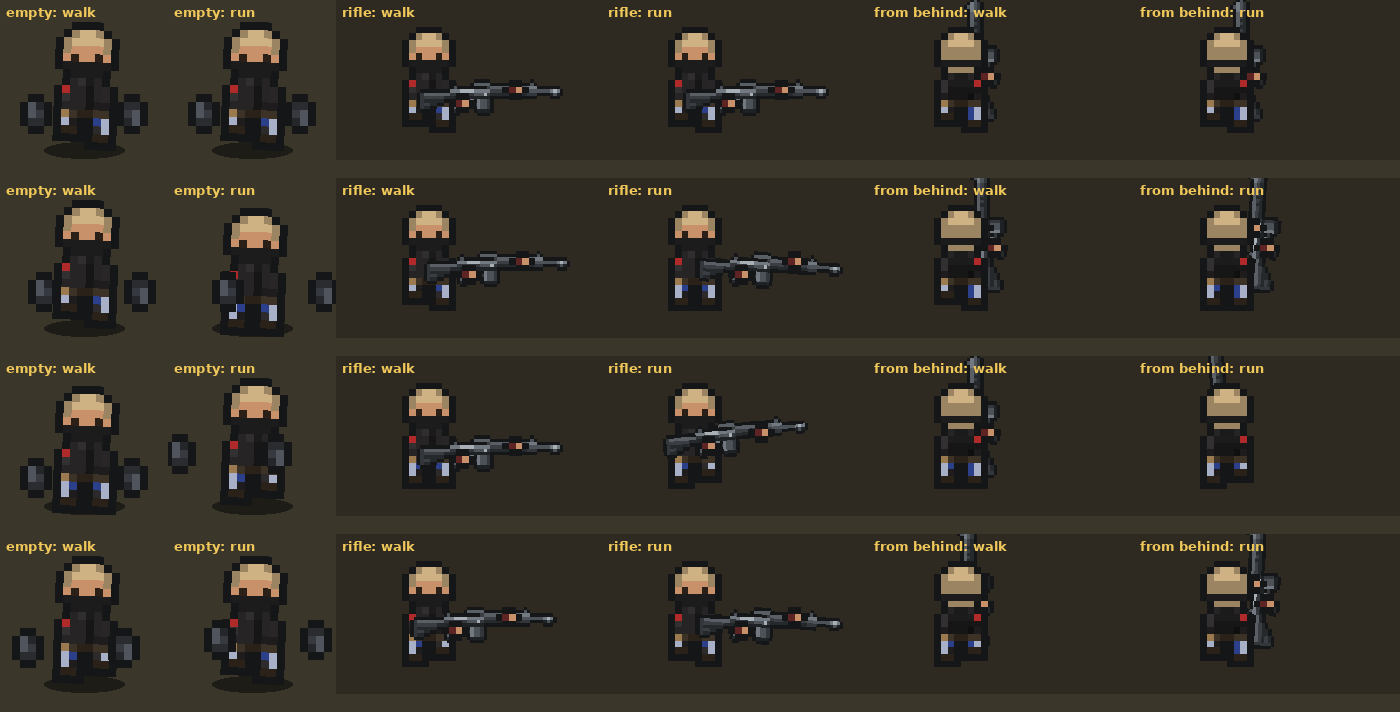
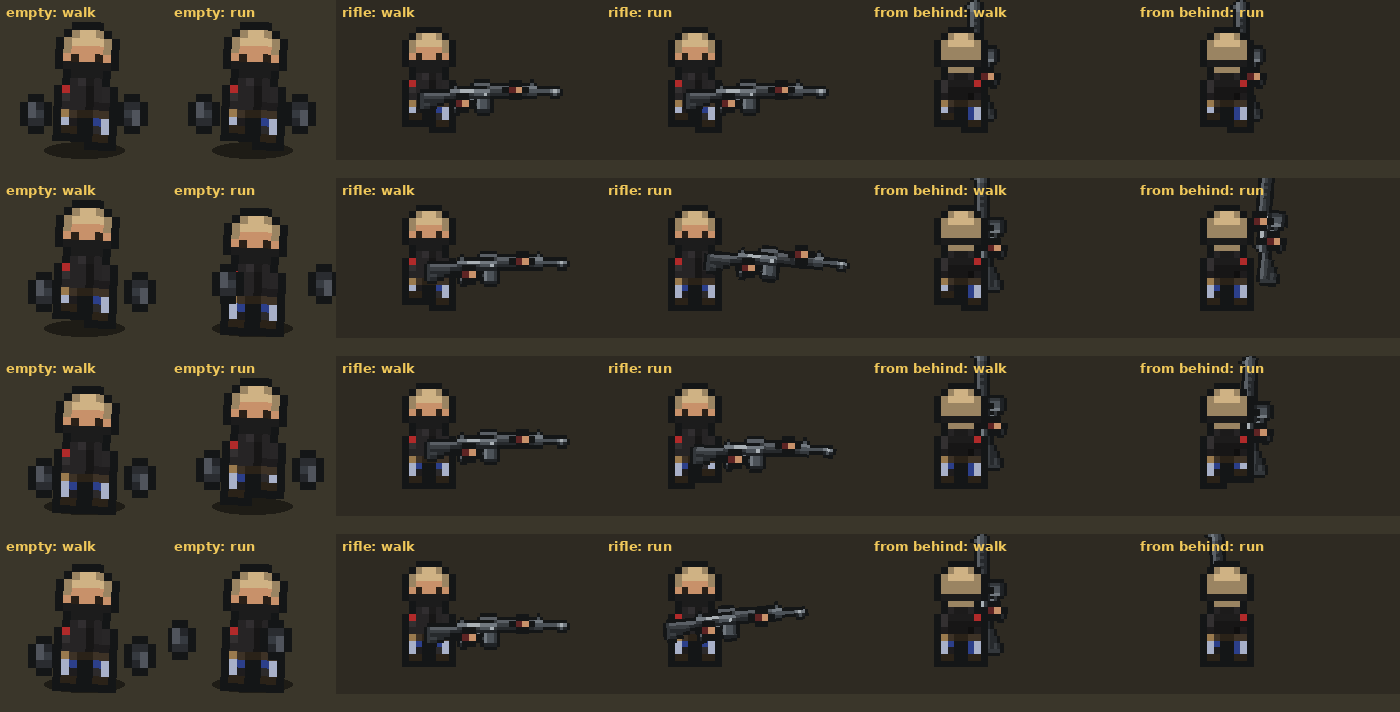
hands_swing preview: body stepping at the game's cadence, 50 fps
Claude-Session: https://claude.ai/code/session_01Jpd5tdDJTR7BVueAYV1KDM

diff --git a/Tools/render/hands_swing.py b/Tools/render/hands_swing.py
@@ -4,7 +4,7 @@ Usage: python3 Tools/render/hands_swing.py out_dir -> hands_swing.gif, hands_swi
 import math, os, sys
 from PIL import Image, ImageDraw, ImageFont
 ROOT = os.path.dirname(os.path.dirname(os.path.dirname(os.path.abspath(__file__)))); SPR = os.path.join(ROOT, "Assets/Resources/Sprites")
-Z = 8; BG = (58, 54, 42, 255); FPS = 30; STRIDE = 1.2
+Z = 8; BG = (58, 54, 42, 255); FPS = 50; STRIDE = 1.2
 def cell(n, x=0): return Image.open(os.path.join(SPR, n)).convert("RGBA").crop((x * 16, 0, x * 16 + 16, 16))
 stand, wa, wb = cell("armor_atlas.png"), cell("armor_walk_a.png"), cell("armor_walk_b.png")
 rifle = Image.open(os.path.join(SPR, "Weapons/weapon_CorvanBattleRifle.png")).convert("RGBA")
@@ -21,7 +21,8 @@ def free_hands(phase, swing, run):
 def frame(t, speed, armed, label):
     W = 16 * Z + 40; H = 16 * Z + 50; c = Image.new("RGBA", (W, H), BG); d = ImageDraw.Draw(c)
     phase = speed * t * 2 * math.pi / STRIDE; run = max(0.0, min(1.0, (speed - 3.4) / 1.0)); walk = 1.0
-    q = int(phase / (2 * math.pi) * 4) % 4; f = stand if q in (1, 3) else (wa if q == 0 else wb); step_body = q in (0, 2)
+    q = int(speed * t * 4) % 4          # the game: HeldPoseMath.WalkFrame(stride) = int(stride * 4) % 4, stride in tiles walked: one body cycle per tile
+    f = stand if q in (1, 3) else (wa if q == 0 else wb); step_body = q in (0, 2)
     ox, oy = 20, 30 - (1 * Z if step_body else 0)
     d.ellipse((20 + 3 * Z, 30 + 14 * Z, 20 + 13 * Z, 30 + 16 * Z), fill=(30, 28, 22, 255))
     body = f.resize((16 * Z, 16 * Z), Image.NEAREST); tilt = -2.0
@@ -52,7 +53,7 @@ bstand, bwa, bwb = cell("armor_back_atlas.png"), cell("armor_back_walk_a.png"), 
 def rifle_col(t, speed, aim, label):
     r = rest[aim]; back = aim == 90
     phase = speed * t * 2 * math.pi / STRIDE; run = max(0.0, min(1.0, (speed - 3.4) / 1.0)); walk = 1.0
-    q = int(phase / (2 * math.pi) * 4) % 4
+    q = int(speed * t * 4) % 4          # the game: HeldPoseMath.WalkFrame(stride) = int(stride * 4) % 4, stride in tiles walked: one body cycle per tile
     fr = (bstand if q in (1, 3) else (bwa if q == 0 else bwb)) if back else (stand if q in (1, 3) else (wa if q == 0 else wb))
     body = fr.resize((16 * ha.S, 16 * ha.S), Image.NEAREST)
     s1 = math.sin(phase); amp = 1 + 2 * run; up = 1 + run
